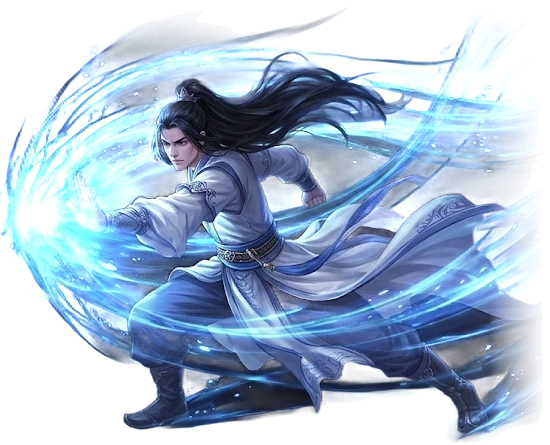
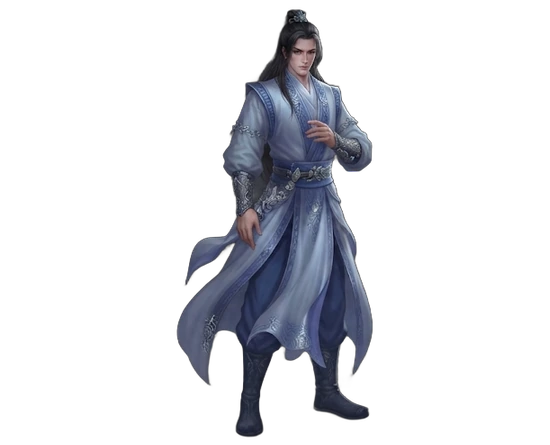
Male cultivator: new standing painting, and three sword poses in fights
- Profile, Appearance page and round face use the new standing painting of the male cultivator.
- Fights: the male swings a sword again (ready, wind-up, strike poses); the slash follows his blade and his
  reach comes from looks.sword_tip. The female keeps her single painting for now.

Claude-Session: https://claude.ai/code/session_018PQaDKZ7pEFLc2BfWzyTqN

diff --git a/web/templates/explore_play.html b/web/templates/explore_play.html
@@ -48,7 +48,7 @@
   <section class="bscene">
     {% if F.me.statuses %}<p class="chips sover sme" aria-label="Your statuses">{% for st in F.me.statuses %}<span class="schip bad">{{ st }}</span>{% endfor %}</p>{% endif %}
     {% if F.enemy.statuses %}<p class="chips sover senemy" aria-label="Beast statuses">{% for st in F.enemy.statuses %}<span class="schip">{{ st }}</span>{% endfor %}</p>{% endif %}
-    <div class="fighter" aria-hidden="true" data-pose="idle">
+    <div class="fighter{% if F.me.tip %} sworded{% endif %}" aria-hidden="true" data-pose="idle"{% if F.me.tip %} data-tip="{{ F.me.tip }}"{% endif %}>
       <div class="poses">
         {% for pose, src in F.me.poses.items() %}<img class="pose p-{{ pose }}" src="{{ src }}" alt="" width="1024" height="559">{% endfor %}
         <img class="trailfx" src="/art/fx/slash.webp" alt="" width="1024" height="559">

diff --git a/web/static/fight.js b/web/static/fight.js
@@ -98,7 +98,7 @@
     var trail = fighter.querySelector('.trailfx');
     var claws = fighter.querySelector('.clawsfx g'), clawClip = fighter.querySelector('#clawclip rect');
     var fr = fighter.getBoundingClientRect(), br = beastBox.getBoundingClientRect();
-    var reachMe = Math.max(0, br.left + br.width * 0.12 - (fr.left + fr.width * 0.962));     // sword tip to the beast
+    var reachMe = Math.max(0, br.left + br.width * 0.12 - (fr.left + fr.width * (parseFloat(fighter.dataset.tip) || 0.962)));     // sword tip to the beast
     var reachBeast = Math.max(0, br.left - (fr.left + fr.width * 0.64));                       // the beast to your body
     var beastFilter = getComputedStyle(beast).filter;
 

diff --git a/web/static/style.css b/web/static/style.css
@@ -733,3 +733,6 @@ body:has(main.battle)>.topbar,body:has(main.battle)>header,body:has(main.battle)
   .bbar .alab{display:block;overflow:visible;-webkit-line-clamp:unset}
   .techmenu>.actbtn{flex-wrap:wrap;column-gap:10px;row-gap:0}
 }
+/* the male in his three sword poses stands mid-canvas: the slash follows his blade, and he is drawn a little larger */
+.fighter.sworded img.trailfx{left:4%;top:1%}
+@media (min-width:901px){.bscene .fighter.sworded{width:min(44%,76vh);left:0}}

diff --git a/looks.py b/looks.py
@@ -3,10 +3,10 @@ Character appearance: male or female. docs/appearance.md.
 
 The look is only a picture. It never touches stats, fights or anything else in the game.
 
-Each gender has one painting of the cultivator in white and blue robes with blue Qi streams
-(art/portraits/hero_<gender>.webp, see-through background). The same painting, turned to face the beast,
-is the fighter in website fights (art/portraits/fight/hero_<gender>.webp), and its head is the round face
-(art/portraits/hero_<gender>_face.webp). A player who hasn't chosen a look shows the male painting.
+Each gender has one painting of the cultivator in white and blue robes (art/portraits/hero_<gender>.webp,
+see-through background) and a round face (art/portraits/hero_<gender>_face.webp). In website fights the male
+has three sword poses (art/portraits/fight/hero_male_{idle,windup,strike}.webp); the female has one painting
+for now (art/portraits/fight/hero_female.webp). A player who hasn't chosen a look shows the male painting.
 """
 import json
 
@@ -60,9 +60,21 @@ def portrait(look):
     return f"/art/portraits/hero_{gender_of(look)}.webp"
 
 
-def fighter(look):
-    """The painting facing right, on the 1024 x 559 fight canvas."""
-    return f"/art/portraits/fight/hero_{gender_of(look)}.webp"
+POSES = ("idle", "windup", "strike")
+SWORD_POSES = {"male"}              # genders painted in all three sword poses; the others use one painting
+
+
+def fighter(look, pose="idle"):
+    """The fighter on the 1024 x 559 fight canvas, facing right, in one of POSES (web/static/fight.js swaps them)."""
+    gender = gender_of(look)
+    if gender in SWORD_POSES:
+        return f"/art/portraits/fight/hero_{gender}_{pose}.webp"
+    return f"/art/portraits/fight/hero_{gender}.webp"
+
+
+def sword_tip(look):
+    """How far across the fight canvas the weapon reaches in the strike pose (0-1), or None for a single painting."""
+    return 0.91 if gender_of(look) in SWORD_POSES else None
 
 
 def face(look):

diff --git a/web/explore_play.py b/web/explore_play.py
@@ -40,7 +40,7 @@ SIDE = ("pill", "flee")                                       # small buttons on
 ACTION_LABEL = {"strike": "Strike", "attack_tech": "Attack technique", "defense_tech": "Defense technique",
                 "pill": "Mending Pill", "guard": "Guard", "break": "Break", "flee": "Flee"}
 PATH_LABEL = {"left": "Left", "middle": "Ahead", "right": "Right"}
-POSES = ("idle", "windup", "strike")   # the fight script swaps these; one painting serves all three (docs/web.md)
+POSES = looks.POSES                  # the fight script swaps these (docs/web.md)
 ARENA = "/art/scenes/arena_ruins.jpg"
 
 
@@ -459,8 +459,8 @@ def look_face(player):
 
 def look_poses(player):
     """The fighter's pose pictures: the player's painting, facing the beast."""
-    art = looks.fighter(looks.of_player(player))
-    return {pose: art for pose in POSES}
+    look = looks.of_player(player)
+    return {pose: looks.fighter(look, pose) for pose in POSES}
 
 
 def fight_view(conn, s, b, p, now):
@@ -482,7 +482,7 @@ def fight_view(conn, s, b, p, now):
         "me": {"name": f.name, "realm": f.realm, "layer": f.layer, "hp": round(f.hp), "max_hp": round(f.max_hp),
                "hp_pct": round(f.hp / max(1, f.max_hp) * 100), "attack": number(round(f.attack)),
                "defense": number(round(f.defense)), "statuses": statuses(f.statuses), "stunned": f.stunned,
-               "face": look_face(p), "poses": look_poses(p), "bqi": round(f.bqi), "max_bqi": f.max_bqi,
+               "face": look_face(p), "poses": look_poses(p), "tip": looks.sword_tip(looks.of_player(p)), "bqi": round(f.bqi), "max_bqi": f.max_bqi,
                "bqi_pct": max(0, min(100, round(f.bqi / max(1, f.max_bqi) * 100))),
                "delta": round(f.hp) - prev["me"] if "me" in prev else 0},
         "enemy": {"name": e["name"], "tier": TIER_LABEL[e["tier"]], "role": e.get("role", "").title(),

diff --git a/tests/test_web_explore.py b/tests/test_web_explore.py
@@ -242,7 +242,7 @@ def test_the_fight_scene_has_the_poses_and_the_turns_events(client):
     act(client, "move", "strike")
     page = client.get("/explore/play").text
     for pose in ("idle", "windup", "strike"):
-        assert f'class="pose p-{pose}" src="/art/portraits/fight/hero_male.webp"' in page
+        assert f'class="pose p-{pose}" src="/art/portraits/fight/hero_male_{pose}.webp"' in page
     assert 'src="/art/fx/slash.webp"' in page and client.get("/art/fx/slash.webp").status_code == 200
     assert 'data-pose="idle"' in page and 'data-bar="me"' in page and 'data-bar="enemy"' in page
     assert "data-events='[{" in page and '"act": "strike"' in page

diff --git a/docs/web.md b/docs/web.md
@@ -171,7 +171,7 @@ a lair is fought with `bot/hunt.py`.
    leap, timed from when the page shows it), herbs, ore, chests and so on. Go deeper or return safely.
 3. **Fights** (`explore_play.html`, the arena `art/scenes/arena_ruins.jpg`): your card (portrait, realm, HP,
    Attack, Defense, statuses), the beast's plate (tier, role, element, realm, HP, statuses), your fighter
-   (the player's painting turned to face right, `art/portraits/fight/hero_<gender>.webp`) facing the beast's painting (`art/beasts/`), the beast's warning in the
+   (`looks.fighter`: the male in three sword poses, the female in one painting for now) facing the beast's painting (`art/beasts/`), the beast's warning in the
    plate, and **four big moves** with keys 1–4 (`art/icons/actions/`): Strike, **Techniques** (a
    small menu with your attack and defense technique, their effect and Battle Qi cost), Guard, Break. **Mending Pill** (P)
    and **Flee** (F) are small buttons on the side. Hovering a move shows what it beats and its cooldown. After a

diff --git a/docs/appearance.md b/docs/appearance.md
@@ -23,7 +23,7 @@ fights and the round face on the fight card. Discord cards keep showing the play
 | File | Used for |
 |---|---|
 | `art/portraits/hero_<gender>.webp` (550 × 445, see-through) | profile and Appearance page |
-| `art/portraits/fight/hero_<gender>.webp` (1024 × 559, facing right) | the fighter in explore fights |
+| `art/portraits/fight/hero_male_{idle,windup,strike}.webp`, `hero_female.webp` (1024 × 559, facing right) | the fighter in explore fights: the male has three sword poses, the female one painting for now |
 | `art/portraits/hero_<gender>_face.webp` (256 × 256) | the round face on the fight card, Appearance thumbnails |
 
 They were cut out of the two paintings SHOAIB supplied (dark background removed, Qi streams kept see-through,
